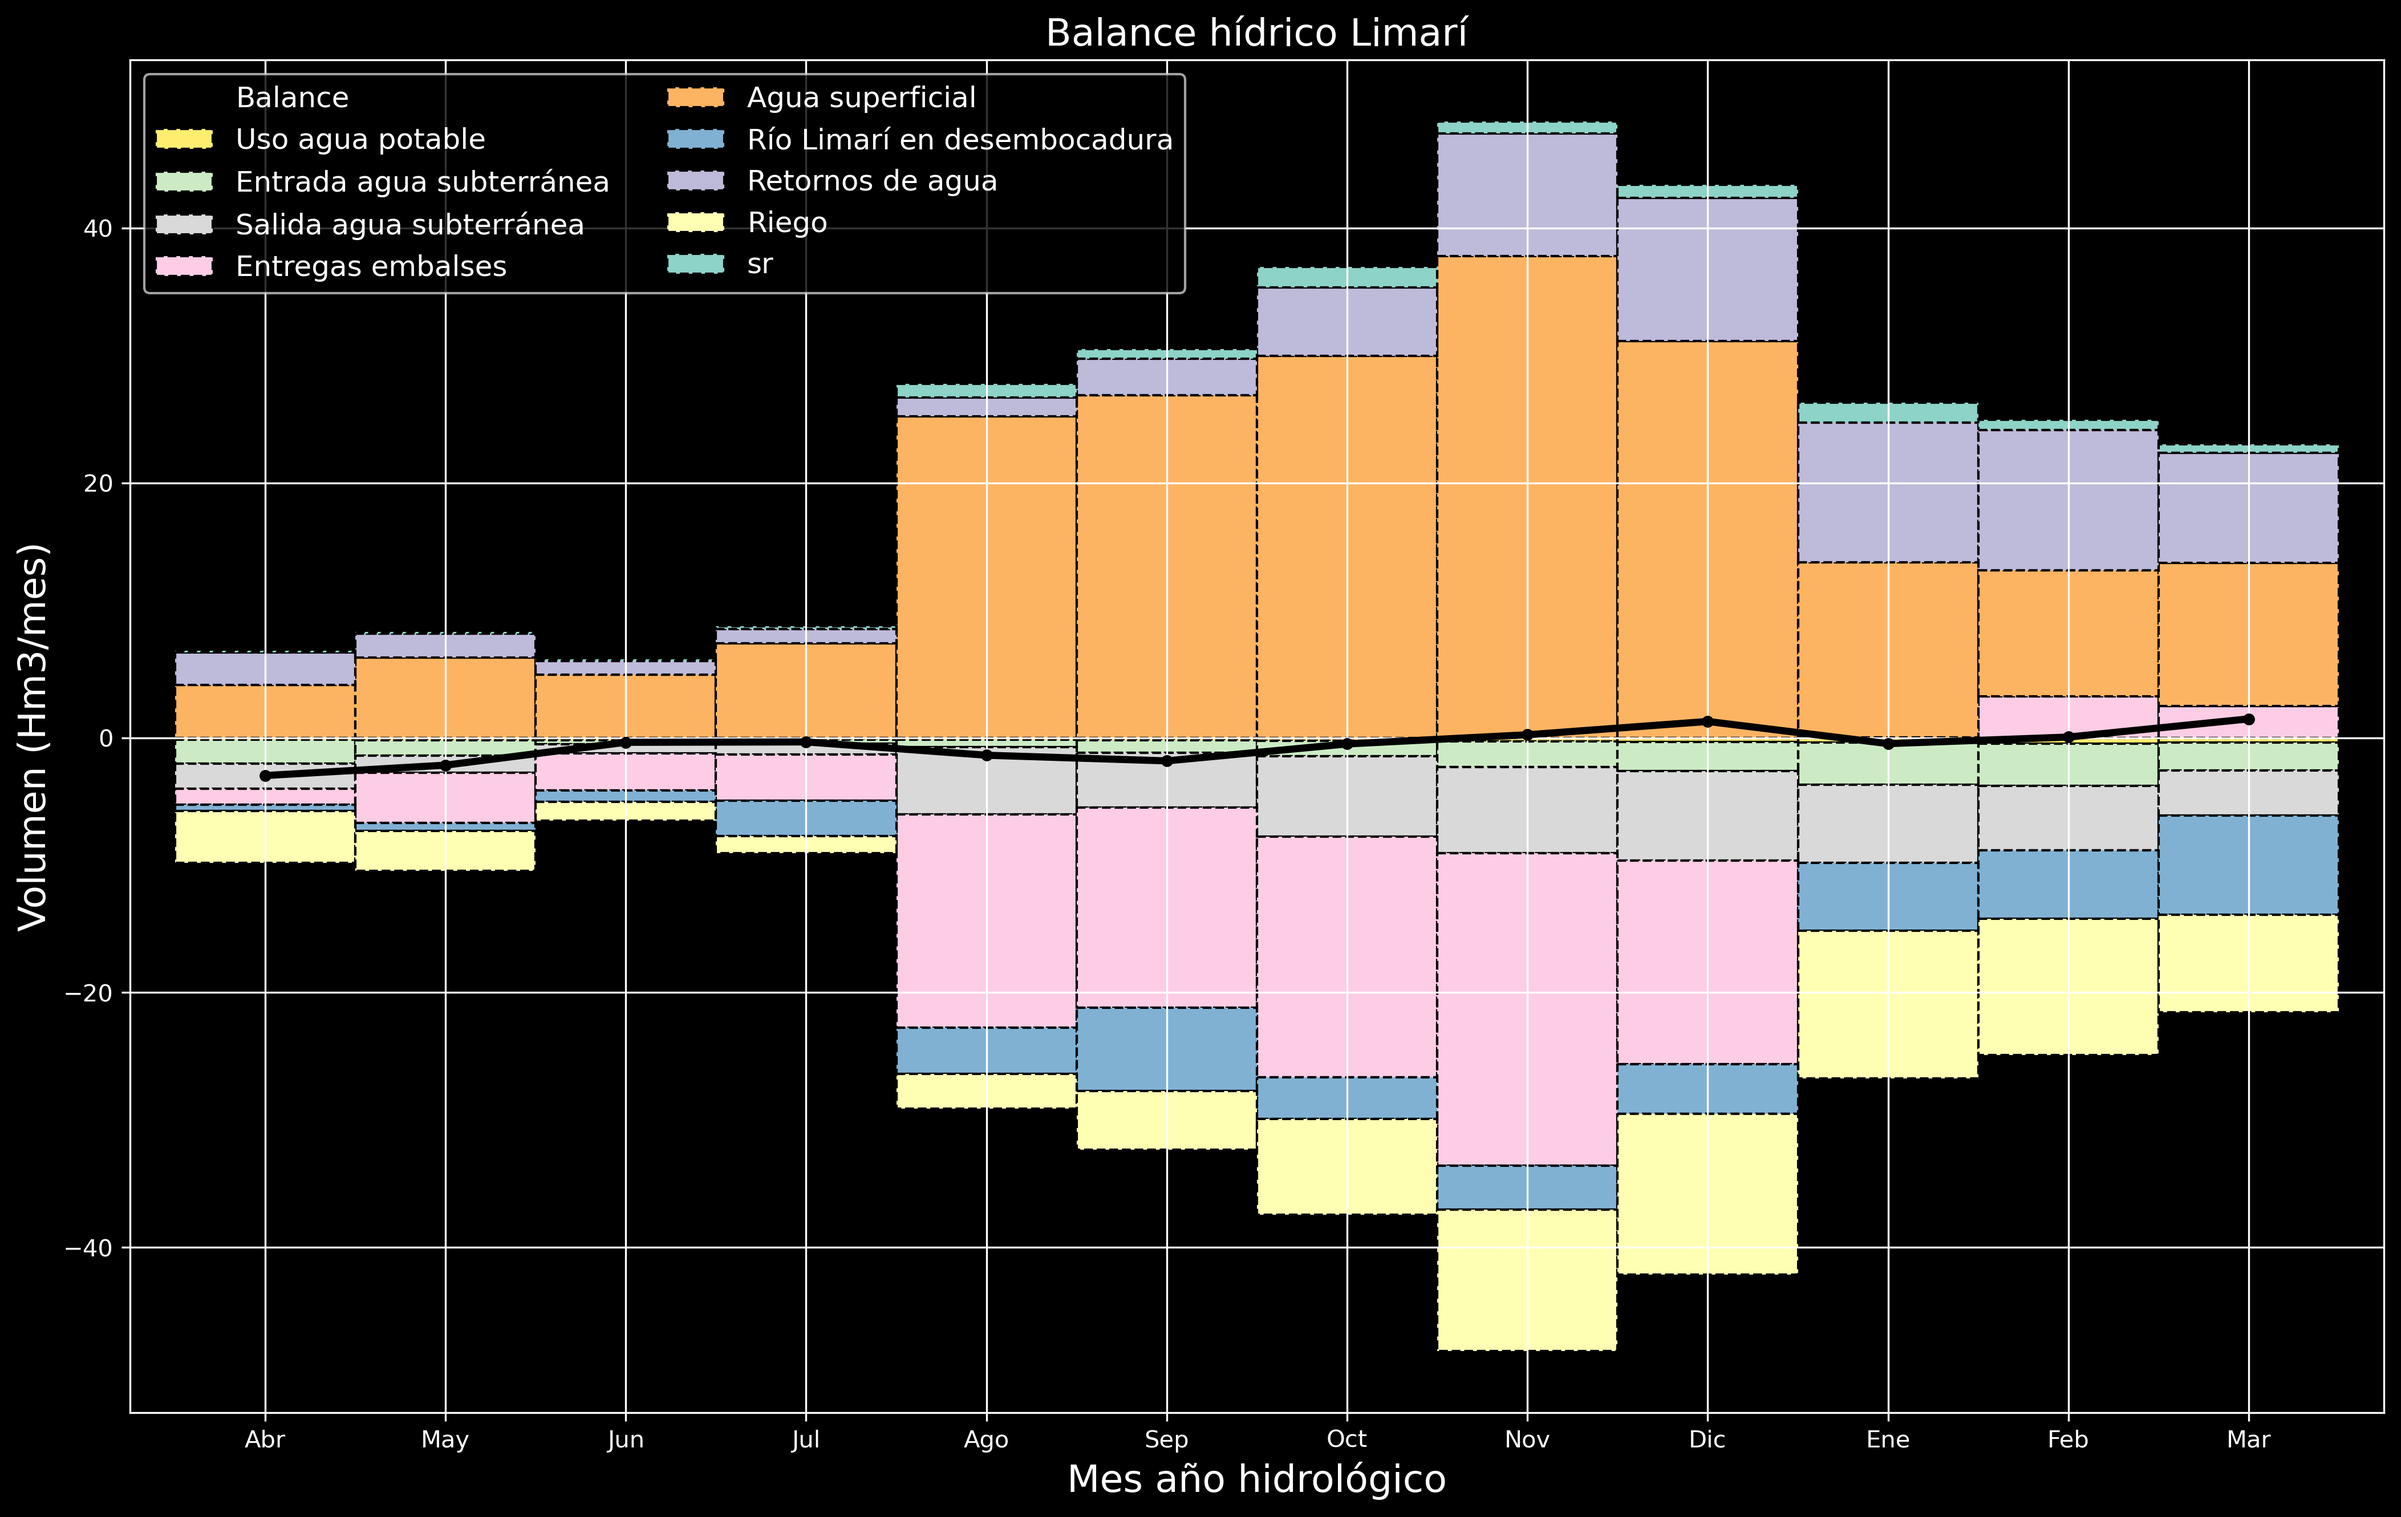
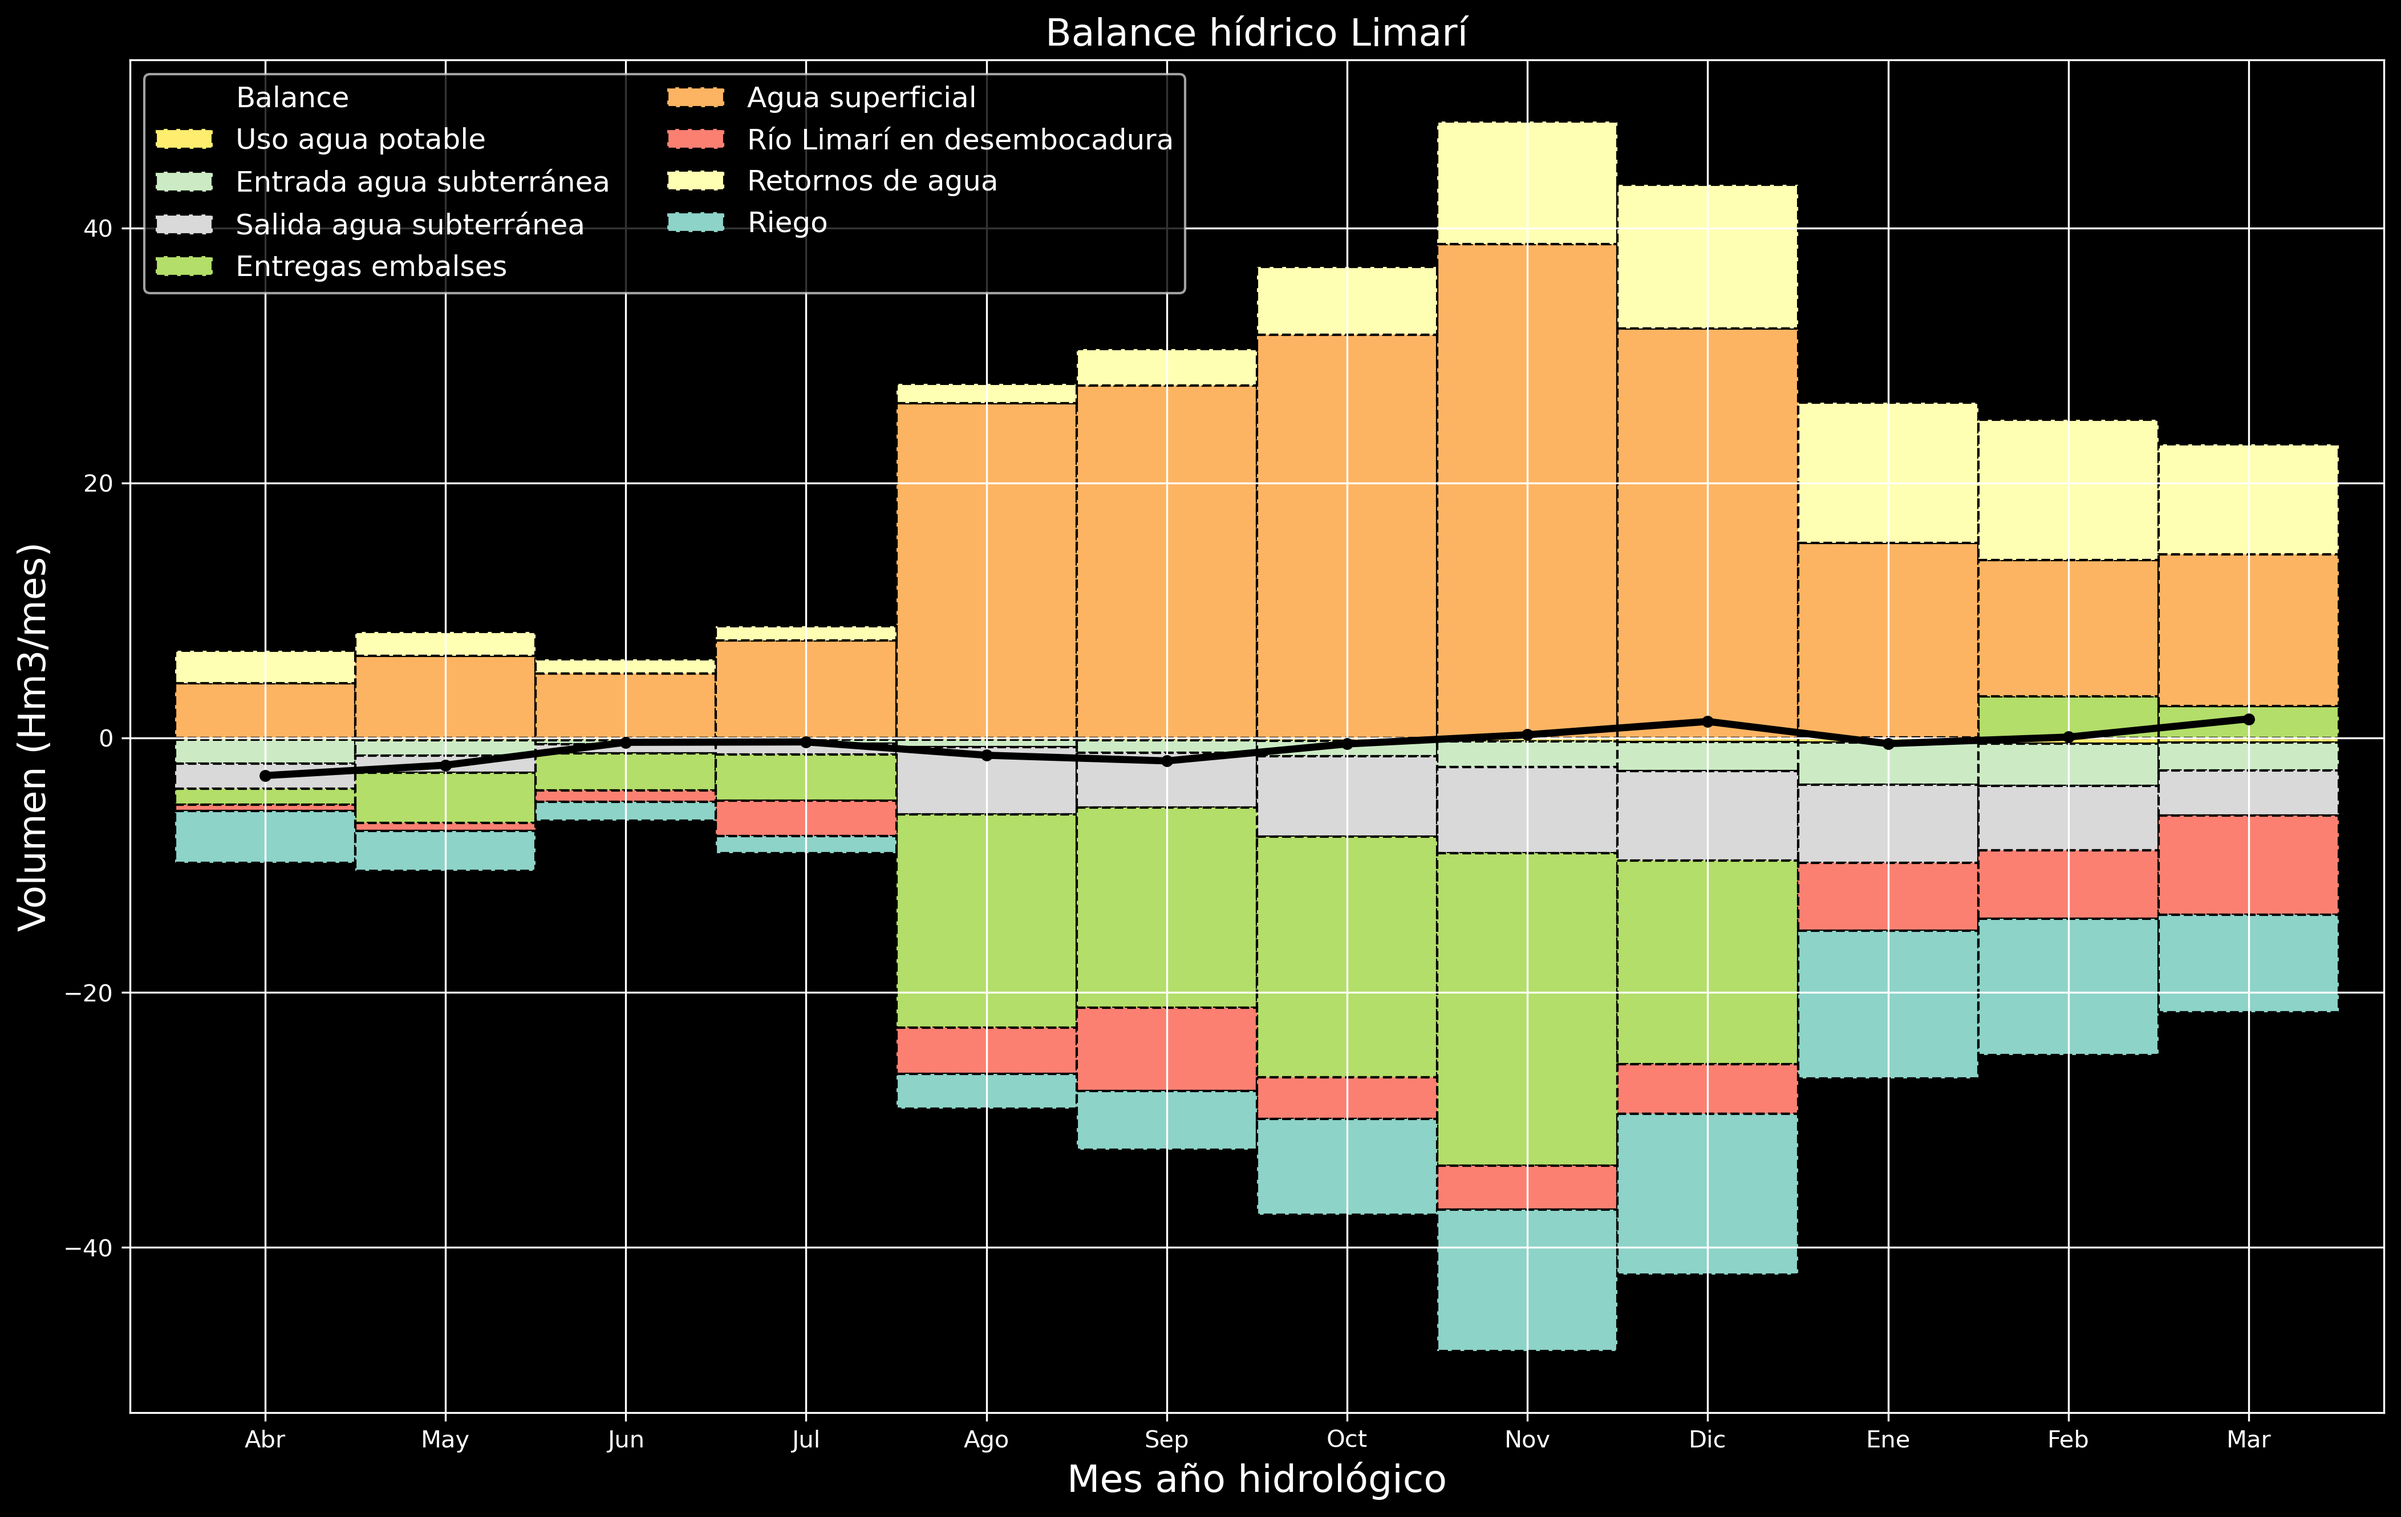
add: rev0

diff --git a/src/balanceLimari.py b/src/balanceLimari.py
@@ -317,8 +317,8 @@ def main():
     #%%    
     datei='2020-04-01'
     datef='2021-03-01'
-    # datei='2015-04-01'
-    # datef='2016-03-01'
+    datei='2015-04-01'
+    datef='2016-03-01'
     dfHurtado=balanceHurtado(datei,datef).astype(float)
     dfLimari=balanceLimari(datei,datef)
 
@@ -331,6 +331,9 @@ def main():
                      'Agua superficial',
                      'Río Limarí en desembocadura',
                      'Retornos de agua','Riego','sr']
+    
+    balance['Agua superficial']=balance['Agua superficial']+balance['sr']
+    del balance['sr']
 
     plt.close('all')
     fig, axes = plt.subplots(figsize = (17,11))
